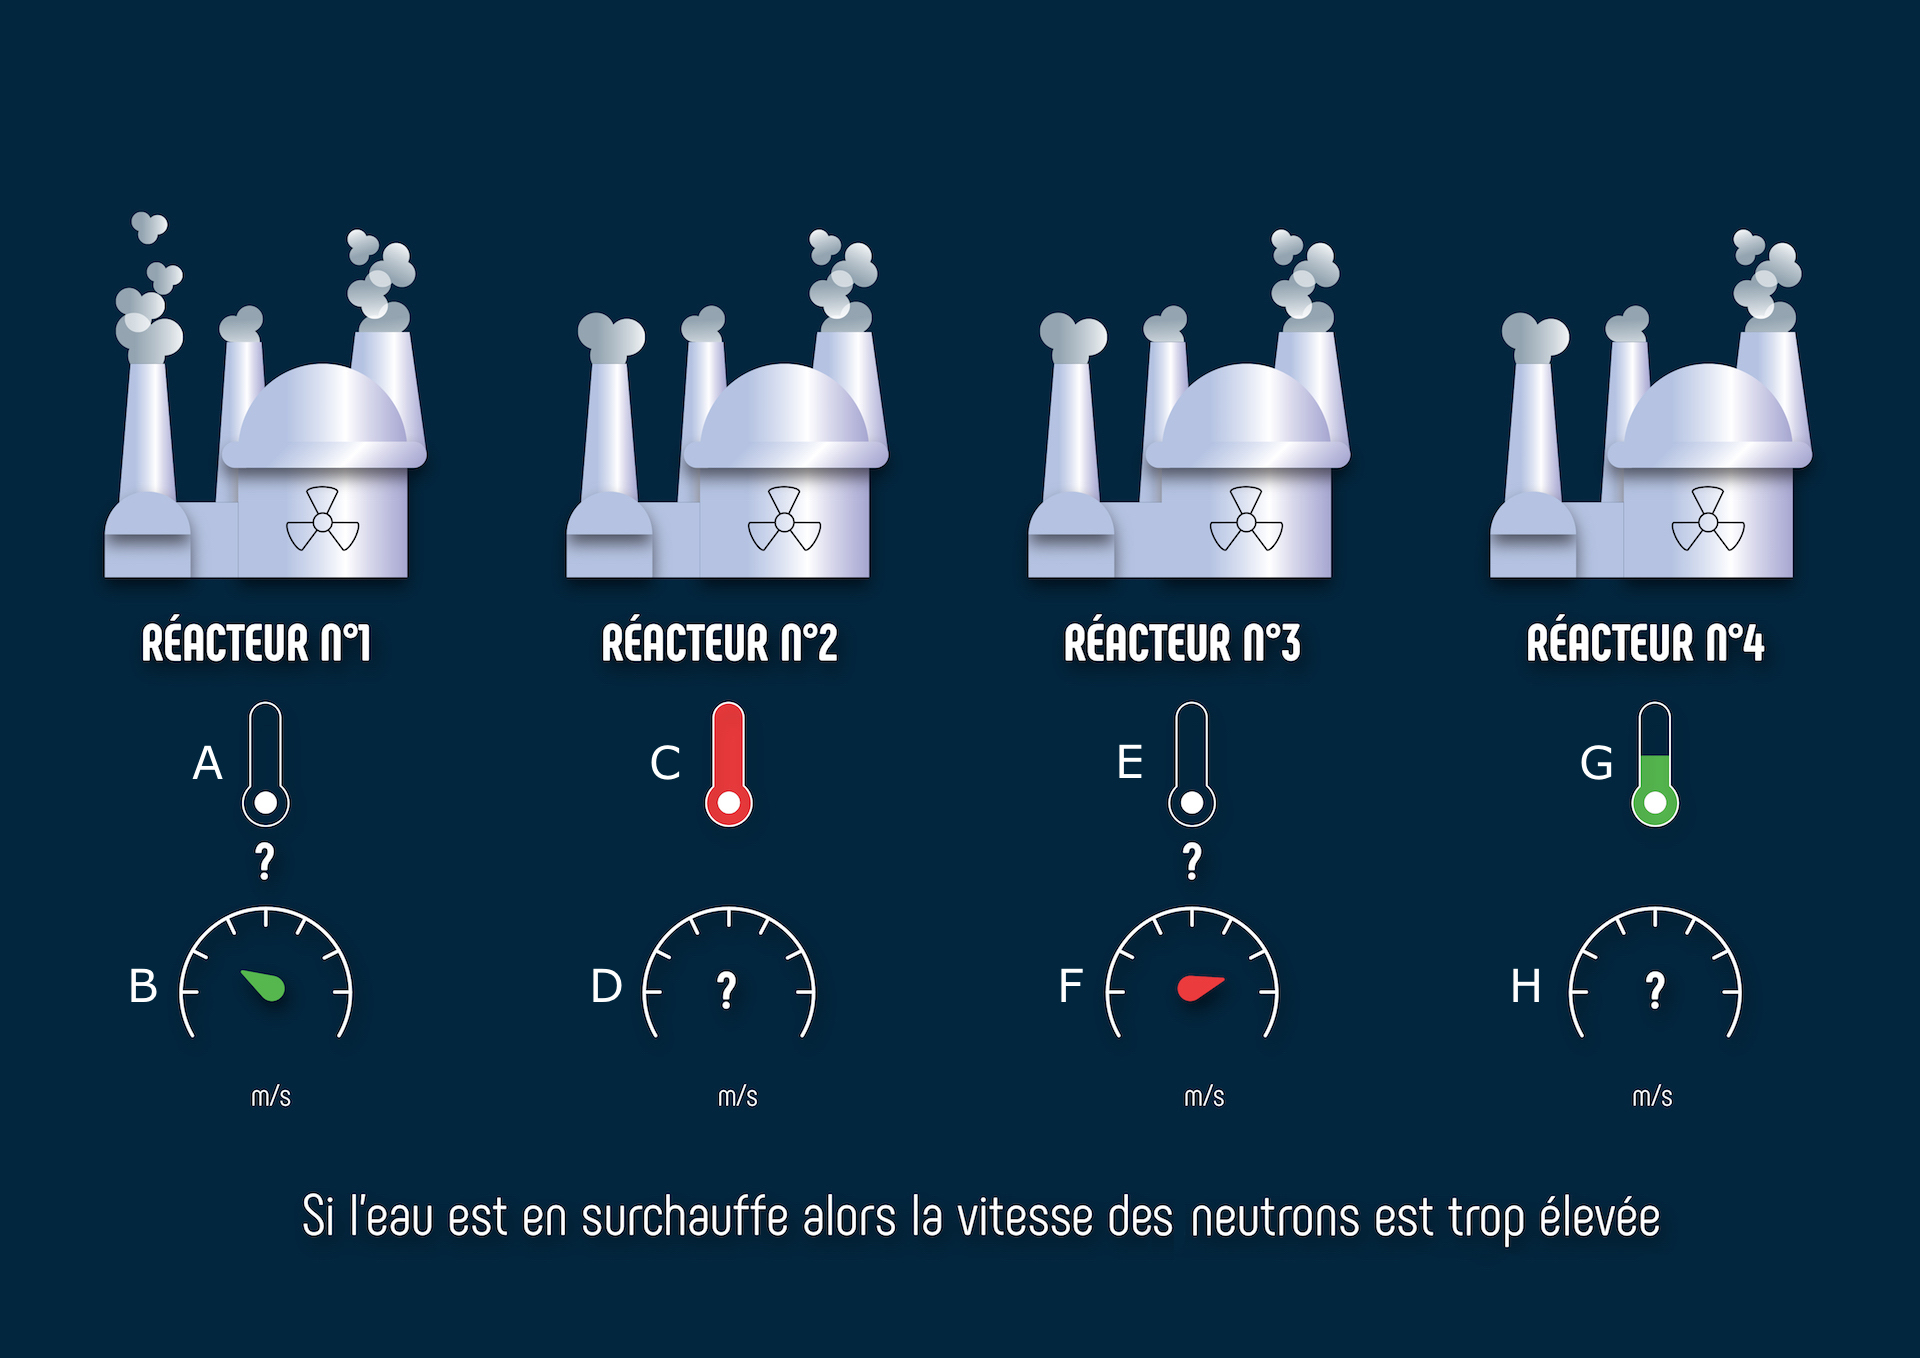
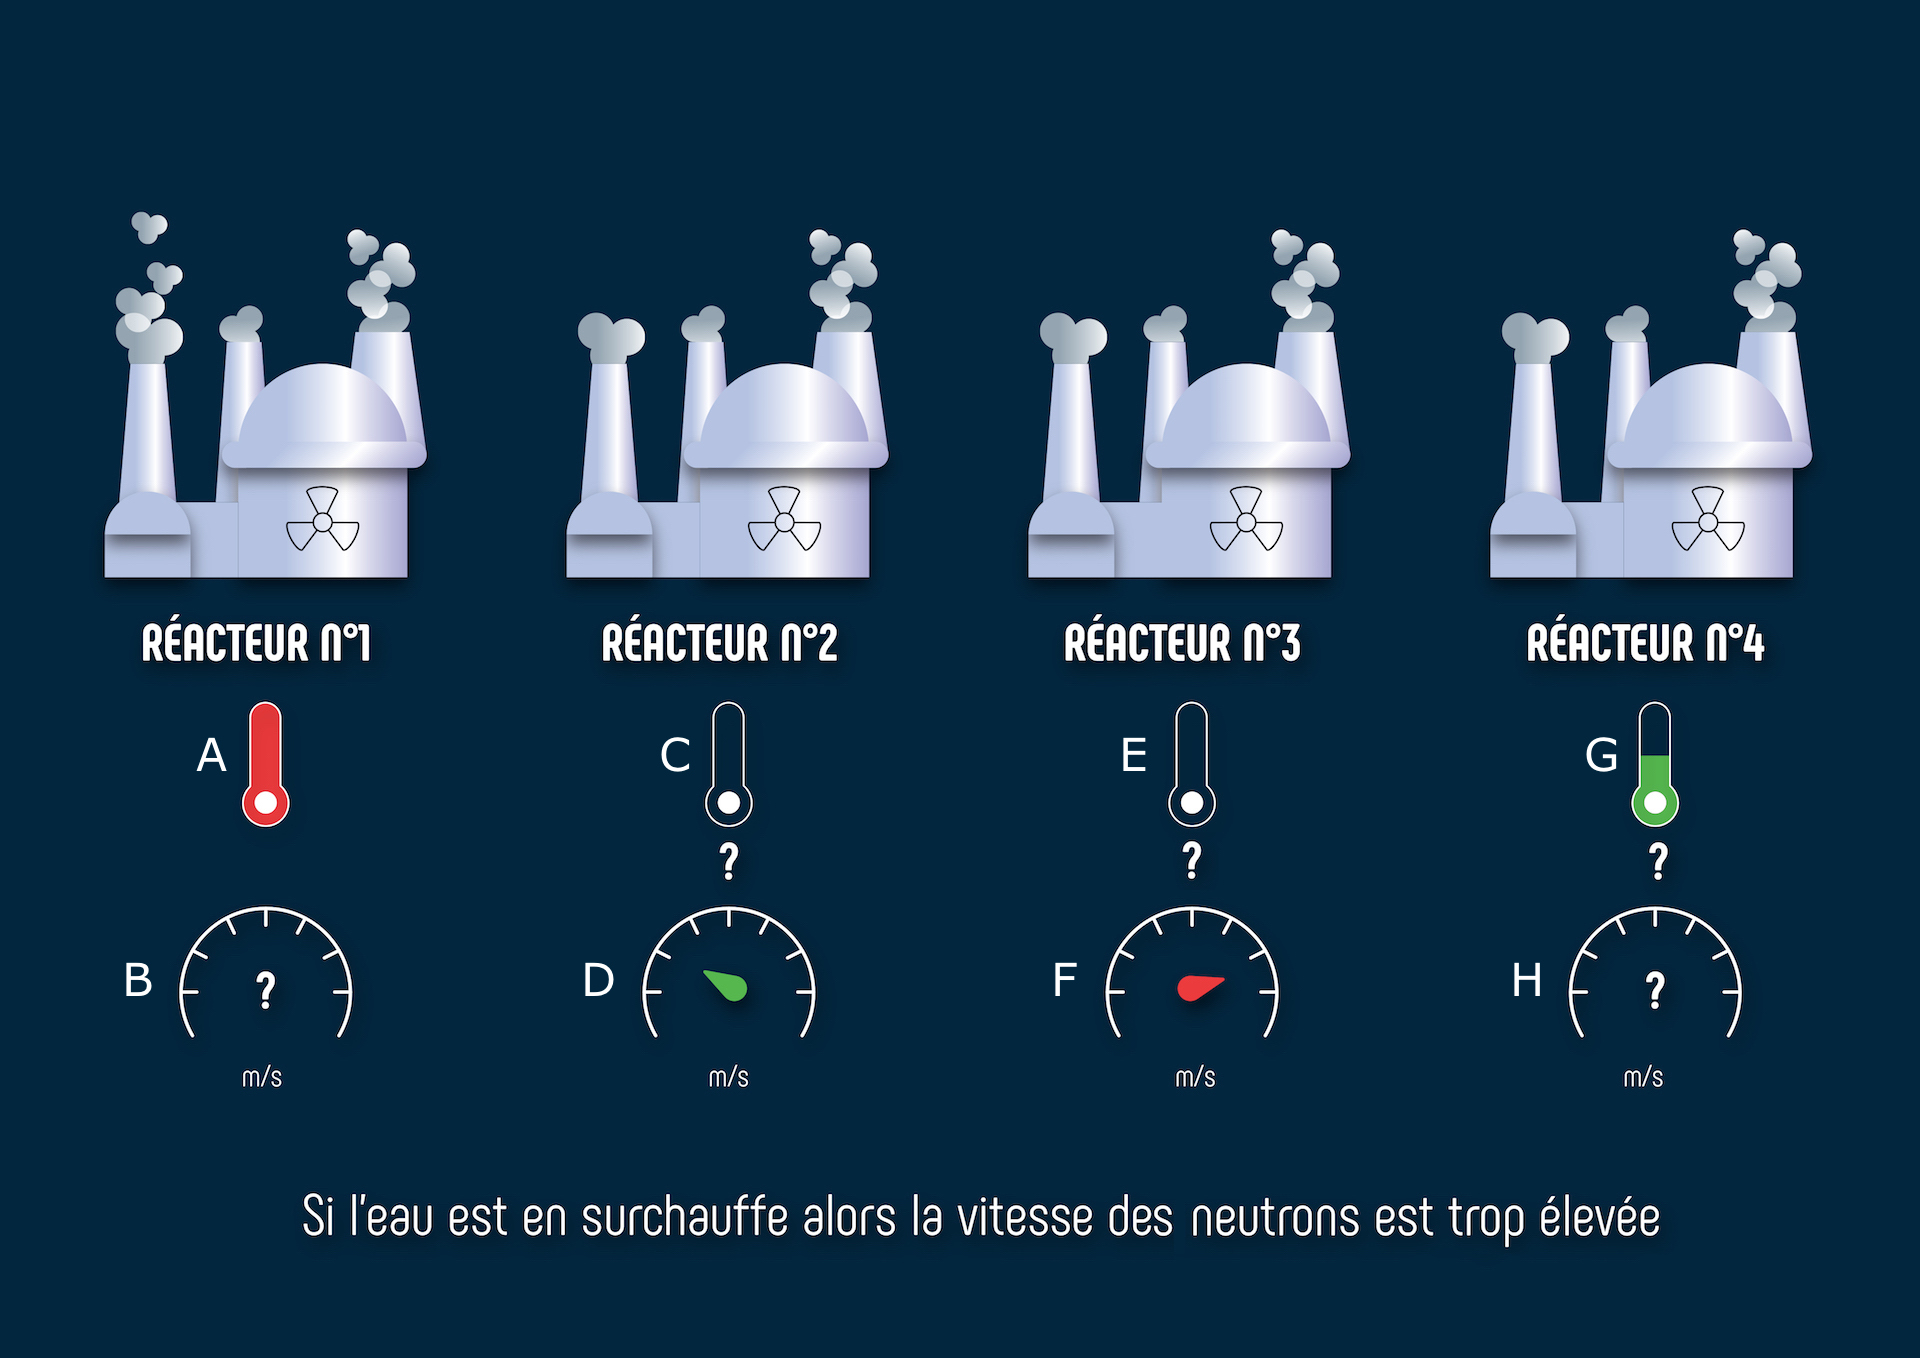
fix: wason sens

diff --git a/wason.js b/wason.js
@@ -136,8 +136,8 @@ class WasonService {
     WasonService.enableFusible();
     let shift = 5;
     const reactors = [
-     {code: 'unknown#pre_normal', label: 'Inconnu / Pression normale', id: ['A', 'B']},
-     {code: 'temp_high#unkown', label: 'Surchauffe / Inconnu', id: ['C', 'D']},
+     {code: 'temp_high#unkown', label: 'Surchauffe / Inconnu', id: ['A', 'B']},
+     {code: 'unknown#pre_normal', label: 'Inconnu / Pression normale', id: ['C', 'D']},
      {code: 'unknown#pre_high', label: 'Inconnu / Surpression', id: ['E', 'F']},
      {code: 'temp_normal#unknown', label: 'Chauffe normale / Inconnu', id: ['G', 'H']},
     ];
